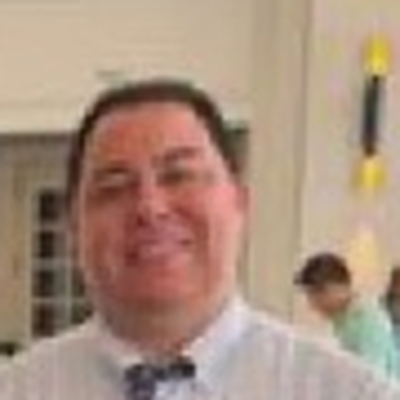
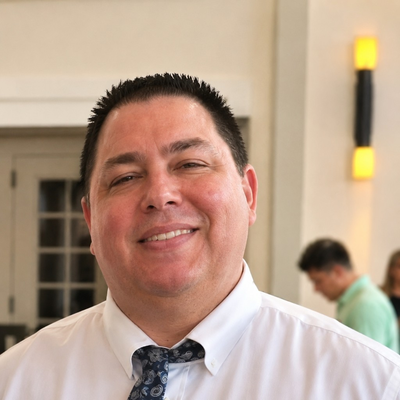
Testing auto deploy

diff --git a/payment.html b/payment.html
@@ -736,15 +736,28 @@
 
     .pp-chime-step-label {
       display: block;
-      white-space: nowrap;
       line-height: 1.45;
       font-size: clamp(12px, 3.4vw, 14px);
+    }
+
+    @media (min-width: 380px) {
+      .pp-chime-step-label {
+        white-space: nowrap;
+      }
     }
 
     html[lang="es"] .pp-chime-step-label,
     html[lang="fr"] .pp-chime-step-label,
     html[lang="ar"] .pp-chime-step-label {
       font-size: clamp(10.5px, 2.8vw, 13px);
+    }
+
+    @media (max-width: 379px) {
+      html[lang="es"] .pp-chime-step-label,
+      html[lang="fr"] .pp-chime-step-label,
+      html[lang="ar"] .pp-chime-step-label {
+        font-size: clamp(10px, 2.6vw, 12px);
+      }
     }
 
     .pp-chime-step-illustration {
@@ -874,6 +887,17 @@
       word-break: break-word;
     }
 
+    @media (max-width: 380px) {
+      .pp-chime-account__email {
+        font-size: clamp(0.92rem, 3.4vw, 1.05rem);
+        letter-spacing: -0.03em;
+      }
+
+      .pp-chime-account__phone {
+        font-size: clamp(1rem, 4vw, 1.2rem);
+      }
+    }
+
     .pp-chime-payment-block {
       margin-bottom: 18px;
     }
@@ -893,6 +917,20 @@
     .pp-chime-payment-block .pp-chime-account__phone,
     .pp-chime-payment-block .pp-chime-account__email {
       margin-bottom: 0;
+    }
+
+    .pp-chime-payment-block--name {
+      margin-bottom: 14px;
+      padding-bottom: 14px;
+      border-bottom: 1px solid rgba(37, 99, 235, 0.14);
+    }
+
+    .pp-chime-account__name {
+      margin: 0;
+      font-size: clamp(1.05rem, 3.8vw, 1.2rem);
+      font-weight: 700;
+      letter-spacing: -0.01em;
+      color: var(--pp-text);
     }
 
     .pp-chime-account__details--solo {
@@ -1928,11 +1966,42 @@
         </div>
 
         <div class="pp-chime-account" aria-label="Chime Pay Anyone payment details">
+          <div class="pp-chime-payment-block pp-chime-payment-block--name">
+            <dl class="pp-chime-account__details pp-chime-account__details--solo">
+              <div class="pp-chime-account__row">
+                <dt>Name</dt>
+                <dd class="pp-chime-account__name">Phillip Marks</dd>
+              </div>
+            </dl>
+          </div>
+
+          <div class="pp-chime-payment-block">
+            <dl class="pp-chime-account__details pp-chime-account__details--solo">
+              <div class="pp-chime-account__row">
+                <dt>Chime tag</dt>
+                <dd class="pp-chime-account__phone" id="chimePhoneNumber" data-copy="$Phillip-Marks-11">$Phillip-Marks-11</dd>
+              </div>
+            </dl>
+            <div class="pp-chime-copy">
+              <button
+                type="button"
+                class="pp-copy-btn"
+                data-copy-target="chimePhoneNumber"
+                data-payment-method="Chime"
+                data-copy-toast="Chime tag copied successfully"
+                aria-label="Copy Chime tag"
+              >
+                <svg width="16" height="16" viewBox="0 0 24 24" fill="none" aria-hidden="true"><rect x="9" y="9" width="12" height="12" rx="2" stroke="currentColor" stroke-width="1.6"/><path d="M6 15H5a2 2 0 0 1-2-2V5a2 2 0 0 1 2-2h8a2 2 0 0 1 2 2v1" stroke="currentColor" stroke-width="1.6"/></svg>
+                Copy Chime tag
+              </button>
+            </div>
+          </div>
+
           <div class="pp-chime-payment-block">
             <dl class="pp-chime-account__details pp-chime-account__details--solo">
               <div class="pp-chime-account__row">
                 <dt>Payment email address</dt>
-                <dd class="pp-chime-account__email" id="chimeEmailAddress" data-copy="[email redacted]">[email redacted]</dd>
+                <dd class="pp-chime-account__email" id="chimeEmailAddress" data-copy="[email redacted]">[email redacted]</dd>
               </div>
             </dl>
             <div class="pp-chime-copy">
@@ -1942,32 +2011,10 @@
                 data-copy-target="chimeEmailAddress"
                 data-payment-method="Chime Email"
                 data-copy-toast="Email address copied successfully"
-                aria-label="Copy email address [email redacted]"
+                aria-label="Copy email address"
               >
                 <svg width="16" height="16" viewBox="0 0 24 24" fill="none" aria-hidden="true"><rect x="9" y="9" width="12" height="12" rx="2" stroke="currentColor" stroke-width="1.6"/><path d="M6 15H5a2 2 0 0 1-2-2V5a2 2 0 0 1 2-2h8a2 2 0 0 1 2 2v1" stroke="currentColor" stroke-width="1.6"/></svg>
                 Copy email address
-              </button>
-            </div>
-          </div>
-
-          <div class="pp-chime-payment-block">
-            <dl class="pp-chime-account__details pp-chime-account__details--solo">
-              <div class="pp-chime-account__row">
-                <dt>Payment phone number</dt>
-                <dd class="pp-chime-account__phone" id="chimePhoneNumber" data-copy="+13152723641">315 272 3641</dd>
-              </div>
-            </dl>
-            <div class="pp-chime-copy">
-              <button
-                type="button"
-                class="pp-copy-btn"
-                data-copy-target="chimePhoneNumber"
-                data-payment-method="Chime"
-                data-copy-toast="Phone number copied successfully"
-                aria-label="Copy phone number 315 272 3641"
-              >
-                <svg width="16" height="16" viewBox="0 0 24 24" fill="none" aria-hidden="true"><rect x="9" y="9" width="12" height="12" rx="2" stroke="currentColor" stroke-width="1.6"/><path d="M6 15H5a2 2 0 0 1-2-2V5a2 2 0 0 1 2-2h8a2 2 0 0 1 2 2v1" stroke="currentColor" stroke-width="1.6"/></svg>
-                Copy phone number
               </button>
             </div>
           </div>
@@ -1996,7 +2043,7 @@
                 </figure>
               </div>
             </li>
-            <li><span aria-hidden="true">3</span><span>Enter the payment number or email address shown above.</span></li>
+            <li><span aria-hidden="true">3</span><span data-translation-key="Enter the chime tag or email address shown above.">Enter the chime tag or email address shown above.</span></li>
             <li><span aria-hidden="true">4</span><span>Confirm the recipient details before sending.</span></li>
             <li><span aria-hidden="true">5</span><span>After payment, upload or send your payment confirmation.</span></li>
           </ol>

diff --git a/i18n-extensions.js b/i18n-extensions.js
@@ -118,6 +118,24 @@
       fr: "Envoyez vos frais de candidature remboursables en toute sécurité via Chime avec la fonction Pay Anyone.",
       ar: "أرسل رسوم الطلب القابلة للاسترداد بأمان عبر Chime باستخدام ميزة Pay Anyone."
     },
+    "Chime tag": {
+      es: "Etiqueta de Chime",
+      zh: "Chime 标签",
+      fr: "Tag Chime",
+      ar: "وسم Chime"
+    },
+    "Copy Chime tag": {
+      es: "Copiar etiqueta de Chime",
+      zh: "复制 Chime 标签",
+      fr: "Copier le tag Chime",
+      ar: "نسخ وسم Chime"
+    },
+    "Chime tag copied successfully": {
+      es: "Etiqueta de Chime copiada correctamente",
+      zh: "Chime 标签已复制",
+      fr: "Tag Chime copié avec succès",
+      ar: "تم نسخ وسم Chime بنجاح"
+    },
     "Payment phone number": {
       es: "Número de teléfono de pago",
       zh: "付款电话号码",
@@ -129,6 +147,12 @@
       zh: "付款邮箱地址",
       fr: "Adresse e-mail de paiement",
       ar: "عنوان البريد الإلكتروني للدفع"
+    },
+    "Name": {
+      es: "Nombre",
+      zh: "姓名",
+      fr: "Nom",
+      ar: "الاسم"
     },
     "Copy phone number": {
       es: "Copiar número de teléfono",
@@ -195,6 +219,12 @@
       zh: "输入上方显示的付款邮箱地址。",
       fr: "Saisissez l’adresse e-mail de paiement indiquée ci-dessus.",
       ar: "أدخل عنوان البريد الإلكتروني للدفع الموضح أعلاه."
+    },
+    "Enter the chime tag or email address shown above.": {
+      es: "Ingrese la etiqueta de Chime o la dirección de correo electrónico que se muestra arriba.",
+      zh: "输入上方显示的 Chime 标签或邮箱地址。",
+      fr: "Saisissez le tag Chime ou l’adresse e-mail affiché(e) ci-dessus.",
+      ar: "أدخل وسم Chime أو عنوان البريد الإلكتروني المعروض أعلاه."
     },
     "Enter the payment number or email address shown above.": {
       es: "Ingrese el número de pago o la dirección de correo electrónico que se muestra arriba.",

diff --git a/index.html b/index.html
@@ -229,8 +229,8 @@
         </div>
         <div class="team-grid">
           <article class="team-card">
-            <img class="team-card__photo team-card__photo--paul" src="images/team/paul-goodling.png" alt="Paul Goodling" width="120" height="120" loading="lazy" decoding="async">
-            <h3 class="team-card__name">Paul Goodling</h3>
+            <img class="team-card__photo team-card__photo--phillip" src="images/team/phillip-marks.png" alt="Phillip Marks" width="120" height="120" loading="lazy" decoding="async">
+            <h3 class="team-card__name">Phillip Marks</h3>
             <p class="team-card__role">Property Manager</p>
             <p class="team-card__bio">Oversees leasing operations, applicant communication, and property owner coordination.</p>
           </article>

diff --git a/style.css b/style.css
@@ -8997,8 +8997,8 @@ body.phone-choice-open {
   object-position: 48% 40%;
 }
 
-.team-card__photo--paul {
-  object-position: 46% 42%;
+.team-card__photo--phillip {
+  object-position: 44% 46%;
 }
 
 .team-card__name {